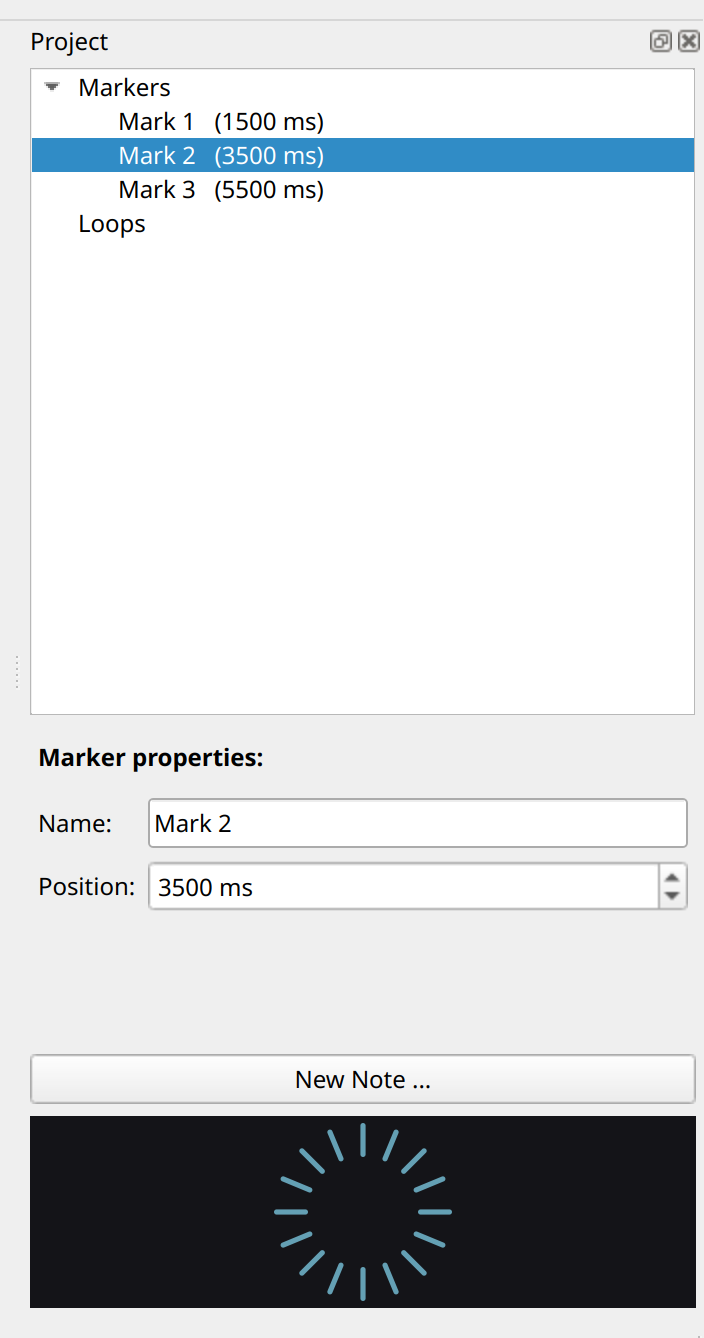
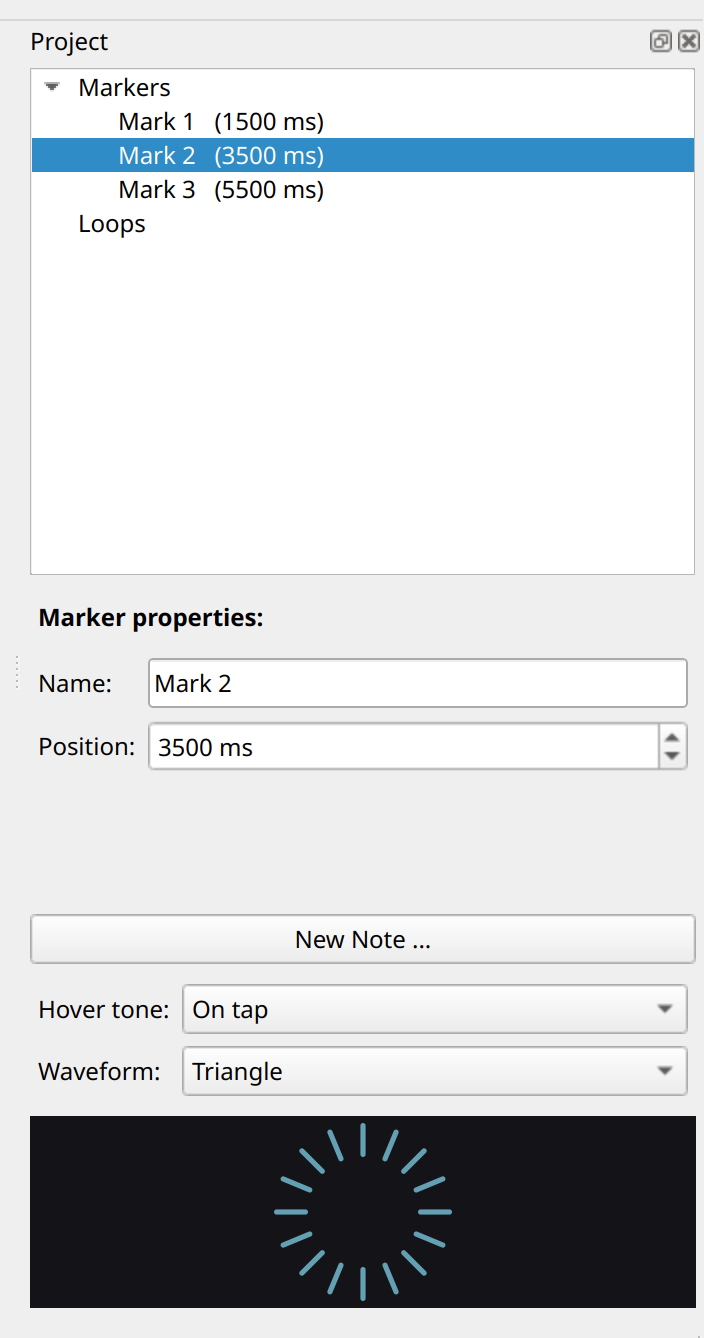
docs: reference-tone synth — manual, README, architecture, screenshots
§8 of the user manual gains a "Reference tone — ear-match while
you transcribe" subsection covering the three gestures (click
piano key, hover tone in Continuous mode, T-pulse in On-tap mode)
and the waveform choice. §9 documents the dock combos.

README gains step 6.x entries on the roadmap (6.1 NoteModel, 6.2
piano-roll + gestures, 6.2.2 loop gestures, 6.3 reference tone)
and an updated status paragraph.

architecture.md gets the layered synth diagram and the
forward-compatibility commentary: Voice / SoundSource / Envelope
are designed for future Sampler / Modulator / Articulator inserts
without changing ToneSynth's public API.

Screenshots regenerated — the dock-detail PNG now shows the new
Hover tone + Waveform combos.

diff --git a/docs/architecture.md b/docs/architecture.md
@@ -1305,7 +1305,27 @@ Steps 0–2 are complete. Steps 3–7 are planned but not implemented.
 - ✅ **Step 5** — Empty staff widget; user-placed barlines mapped to audio timestamps. `score::BarlineModel` is the shared data layer (descriptive `TimeSignature`, no uniformity enforcement — supports crooked tunes); `ui::StaffWidget` and `ui::WaveformWidget` both observe it. Tap-to-place is the primary gesture (`B`); `Ctrl+Z` undoes the last placement; `Del` removes the selected (auto-selected on tap) bar. Tradition-named time-signature picker; `QPainter` rather than `QGraphicsView` — see "Score widgets" above for the deferred features.
 - ✅ **Step 5.5 (part A)** — Markers + project viewer dock. `score::MarkerModel` is the second project-artifact model (stable IDs, auto-named, repositionable, free-text rename). `ui::ProjectViewerDock` is the right-side `QDockWidget` that hosts the marker list and a property editor; double-click on a marker row "jump and plays". Tap-to-place is `M`; `Ctrl+Z` is now combined across barlines + markers; `Del` removes whichever is selected (mutually-exclusive selection).
 - ✅ **Step 5.5 (part B)** — Practice loops. `score::LoopModel` is the third project-artifact model (paired `start_ms` + `end_ms`, stable IDs). Two-anchor creation gesture: click first anchor, Ctrl+click second (any combination of barlines + markers, on any of the three surfaces — waveform, staff, dock), press `L` to create. Loops appear under a "Loops" category in the dock with a property page; double-click arms + jumps + plays, the Arm checkbox arms in place. Pressing Play with an armed loop seeks to startMs if the cursor is outside the loop. Wrap-around lives in the 50 ms GUI poll (jitter inaudible at practice tempos); Stop disarms. Pause-between-repeats and pre-roll-on-Play share a global `prerollMs` setting on the transport row (#16) — practice-mode countdown gives the player ready-set-go time on every loop-start gesture.
-- 🔜 **Step 6** — Bidirectional cursor between audio and staff; reference-tone synthesiser (sine/triangle) triggered by placing a note.
+- ✅ **Step 6.1** — `score::NoteModel` as the fourth project-artifact model: notes stored as (start_ms, end_ms, midi) intervals with stable IDs. Pitch is *perceived* MIDI, not notation step+alter (those derive later at render/export). Naturals only in 6.1; accidentals shipped in the piano-roll redesign of 6.2.
+- ✅ **Step 6.2** — Chromatic piano-roll on the staff. Every semitone gets its own row (G3..E7, the violin range); a piano keyboard column on the left labels C notes per octave. Click anywhere on the grid to place a note (click is the new note's start, 400 ms default duration); drag the body to move; drag an edge to resize; drag on empty grid to draw with explicit length. After every note gesture the playback cursor lands at the note's startMs (so "place + Play" replays from onset). Same-row overlap guard prevents accidental duplicates. Loop bands paint on both waveform and staff but are interactive ONLY on the waveform — keeps the piano roll a pure note editor.
+- ✅ **Step 6.2.2** — Loop gestures on the waveform. Drag the body to translate the whole band; drag-on-empty-waveform to draw a new loop. Snap-to-anchor includes barlines, markers, and other loop edges. The two-anchor `L` creation gesture stays as the keyboard-driven fallback.
+- ✅ **Step 6.3** — Reference-tone synthesizer. Architecture:
+  ```
+  ToneSynth                  ← public face, own PortAudio stream
+  └── Voice                  ← single reference voice today;
+                                VoicePool (future) for chord playback
+      ├── SoundSource        ← polymorphism point
+      │   ├── Oscillator     ← sine + triangle (this step)
+      │   └── Sampler        ← real fiddle samples (future)
+      └── Envelope           ← attack/sustain/release;
+                                articulation-driven (future)
+
+  Future inserts (no public-API change):
+      ├── Modulator          ← vibrato / tremolo LFO inside Voice
+      └── Articulator        ← translates ornament/accent hints
+                                to envelope shape + vibrato params
+  ```
+  Click a piano key on the staff to fire a 300 ms pulse; hover-tone modes (Off / Continuous / On-tap) gate how mouse motion over the chromatic grid plays a reference tone. Triangle is the default waveform (closer to fiddle harmonic spectrum). The synth runs as its own PortAudio stream so the tone mixes with the recording at the OS audio router — no fighting with playback volume. Voice / SoundSource / Envelope are designed for the future expressive playback path: chord polyphony (`scheduleNote` + `VoicePool`), ornaments (`Articulator`), real fiddle samples (`Sampler` subclass swapping in at the `SoundSource` slot). Public `ToneSynth` API stays narrow today (`playContinuous` / `stop` / `playPulse`) and grows additively.
+- 🔜 **Step 6.4** — Bidirectional playback cursor. The current note (whose interval contains `positionMs_`) paints with a brighter ring; click-on-note seeks to the note's startMs (already shipped in 6.2); optional onset-tone pulse plays a brief reference at each note's startMs as playback crosses it.
 - 🔜 **Step 7** — MusicXML and ABC notation export.
 
 ## How we work

diff --git a/docs/user-manual.md b/docs/user-manual.md
@@ -194,7 +194,7 @@ Click a cell on the chromatic grid to place a note. The grid is the area to the 
 
 When a loop is *armed* (see §7), the new note's interval is the loop's range instead of the default span. This makes click-to-place a chord-building gesture inside the armed region: each click on a different row adds another note over the same interval. The cursor lands at the loop's start regardless of where you clicked, so Play replays the whole loop.
 
-The piano keyboard column itself is **not** clickable — it labels the rows and is reserved for a future preview-tone gesture. Clicks land only on the grid.
+The piano keyboard column on the left **is** clickable — clicking a key plays a brief reference tone at that pitch so you can A/B against the recording. The key flashes amber for ~150 ms. See *§8.2 Reference tone* below for the full ear-match workflow.
 
 ### Drag a note
 
@@ -232,7 +232,20 @@ Click a bar on the staff to select it. The dock's property page shows the note's
 
 Notes are the only artifact that carries a pitch. **Delete** removes the selected note exactly like it removes the other artifact kinds; **Ctrl+Z** brings it back with its original interval and pitch.
 
-> *What's next.* Click-to-place is the foundation gesture. The follow-up step adds an optional reference-tone synth on the keyboard column so you can audition a pitch against the recording before committing the note.
+### Reference tone — ear-match while you transcribe
+
+Fiddler plays a synthesized tone at any pitch on the staff so you can compare it against the recording by ear — the way Transcribe! and every transcription-focused app does it. Three gestures, escalating in commitment:
+
+- *Click a piano key.* Click any key in the keyboard column on the left of the staff to fire a short reference pulse at that pitch (~300 ms, with a smooth attack and release). The key flashes amber so you see what you hit. Always available — no mode to enable.
+- *Hover the chromatic grid.* In the dock's *Reference tone* controls (see §9) you can set **Hover tone** to one of three modes:
+  - **Off** — hover is silent. Click-to-place a note runs as usual.
+  - **Continuous** — hover plays a steady tone at the row under the cursor; the tone retunes smoothly as you move between rows. The recording keeps playing, so you hear both at once — best for unison-matching and beat detection.
+  - **On tap** — hover is silent; pressing **T** while hovering fires a pulse at the current row. The recording stays clean for listening; you ear-check only at moments of your choosing.
+- *Waveform.* The same dock controls let you choose between **Triangle** (default — closer to fiddle harmonic spectrum) and **Sine** (pure, less colored).
+
+The synth runs as its own audio stream so tones mix with the playback at the OS level — no fighting the recording's volume. Your preferences persist across sessions.
+
+> *What's next.* Step 6 finishes with the bidirectional playback cursor: the active note bar highlights as playback crosses it, and the optional onset-tone pulse plays a brief note in time with the recording so you hear your transcription alongside what's there.
 
 ## 9. The project viewer dock
 
@@ -243,6 +256,7 @@ The dock on the right of the window lists every marker and loop in the recording
 - *Tree.* Markers and Loops as two collapsible categories. Click a row to select; double-click a row to jump and play. Notes are not listed — they are selected and edited via the staff (piano roll), since pitch + interval already identifies each note on the grid.
 - *Property page.* Shows the fields of the currently-selected artifact, headed by a caption — "Marker properties:", "Loop properties:", or "Note properties:". Markers expose Name and Position; loops expose Name, Start, End, and the Armed checkbox; notes expose Pitch, Start, End, and Duration (no per-note name — notes are anonymous, matching MuseScore / MusicXML conventions). All fields commit live on Enter / Tab / focus-loss.
 - *Note button.* Below the property page — labelled **New Note …** when nothing is pending and **Add Note** while a draft is open. Hidden while you're editing an existing note (the property page does the writing). See *§8 Notes* for the workflow.
+- *Reference tone.* Two combos: **Hover tone** (Off / Continuous / On tap) gates how mouse motion over the chromatic grid plays a reference tone, and **Waveform** (Sine / Triangle) picks the tone shape. Both persist across sessions. Clicking a piano key in the keyboard column always plays, regardless of the Hover tone mode. See *§8 Notes — Reference tone* for the full workflow.
 - *Pre-roll countdown.* When the pre-roll is enabled, the countdown ring appears at the bottom of the dock and animates during each pre-roll silence.
 
 Press **F4** to hide or show the dock. The dock's visibility persists across sessions, so a hidden dock stays hidden until you press **F4** again.

diff --git a/README.md b/README.md
@@ -15,14 +15,16 @@ The [**user manual**](docs/user-manual.md) walks through opening audio,
 slowing it down, marking phrases, building practice loops, and using
 the pre-roll countdown. Start there if you're new to Fiddler.
 
-**Status:** step 5.5 part B done — open audio, play with pitch-
-preserving tempo control 25–100 %, see and seek through a
-synchronised waveform, place barlines and named markers on a staff
-by tapping along to the recording, navigate / rename / re-position
-markers from a right-side project viewer dock, and create practice
-loops from any pair of anchors. **Drag** markers and loop
-boundaries to fine-tune positions on either the waveform or the
-staff (loop edges snap to nearby barlines / markers as you drag).
+**Status:** step 6.3 done — open audio, play with pitch-preserving
+tempo control 25–100 %, see and seek through a synchronised
+waveform, place barlines and named markers on a staff by tapping
+along to the recording, build practice loops from a drag on the
+waveform (or from any two anchors), drag-move / resize / drag-create
+loops and notes on the chromatic piano roll, snap edges to nearby
+barlines / markers / loop edges, edit any artifact from the
+right-side project viewer dock, and audition pitches with a
+built-in reference-tone synth (click a piano key, or hover-tone in
+Continuous / On-tap mode) for ear-matching against the recording.
 Toggle the **Pre-roll** checkbox in the transport row to switch
 between passive listening (no silence) and practice mode, where
 every Play press inserts a ready-set-go countdown of the chosen
@@ -38,7 +40,11 @@ ms before audio starts.
 - ✅ **Step 5** — Empty staff widget + user-placed barlines + tradition-named time-signature picker. Tap `B` to place at the playback position; `Ctrl+Z` undoes; `Del` removes.
 - ✅ **Step 5.5 (part A)** — Markers + project viewer dock. Tap `M` to drop a named cue point at the playback position; the dock on the right lists all markers, lets you rename / re-position them, and double-clicking a row jumps the player there and starts playback.
 - ✅ **Step 5.5 (part B)** — Practice loops. Click any artifact to mark a primary anchor, Ctrl+click any second artifact to add a secondary, press `L` to create a loop spanning them. Loops appear under a "Loops" category in the dock with a property page (Name / Start / End / Pause / Armed). Double-clicking a loop arms + jumps + plays; the Arm checkbox arms in place; pressing the main Play button while a loop is armed seeks to the loop's start if you're outside it.
-- 🔜 **Step 6** — Bidirectional cursor between audio and staff; reference-tone synthesiser (sine/triangle) triggered by placing a note.
+- ✅ **Step 6.1** — `NoteModel` + chromatic piano-roll rendering on the staff. Notes are stored as (start_ms, end_ms, midi) intervals; the staff renders horizontal bars on per-semitone rows over the violin range (G3 – E7).
+- ✅ **Step 6.2** — Click-to-place + drag gestures for notes. Click a row to place a note starting at the click (default 400 ms); drag the body to move; drag an edge to resize; drag on empty grid to draw with explicit length. Same-row overlap guard prevents accidental duplicates.
+- ✅ **Step 6.2.2** — Loop gestures on the waveform. Drag the body of a loop band to translate; drag on empty waveform to draw a new loop. Snap-to-anchor on barlines / markers / other loop edges.
+- ✅ **Step 6.3** — Reference-tone synthesizer. Click a piano key on the staff to fire a pulse; hover-tone in Continuous (tone follows mouse) or On-tap (T fires a pulse) mode. Sine + Triangle waveforms; runs as its own audio stream alongside the recording. The layered architecture (`Voice` → `SoundSource` → `Oscillator`) is ready for expressive playback expansion: ornaments, vibrato, real fiddle samples.
+- 🔜 **Step 6.4** — Bidirectional playback cursor. Current note highlights as playback crosses it; optional onset-tone pulse mixes the transcription against the audio.
 - 🔜 **Step 7** — MusicXML and ABC notation export.
 
 See [`docs/architecture.md`](docs/architecture.md) for stack-choice rationale.
